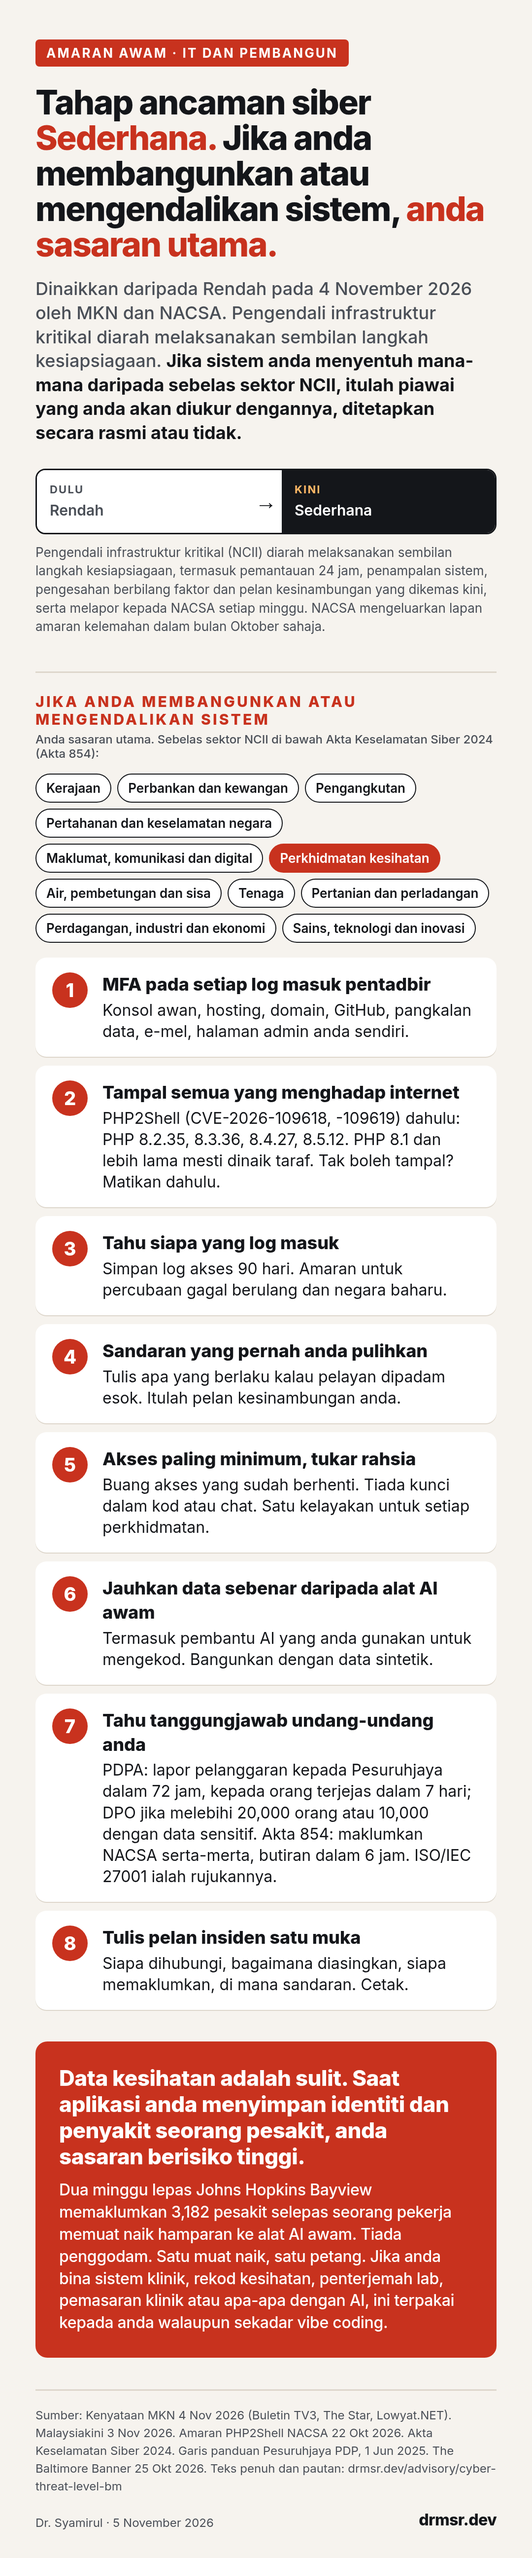
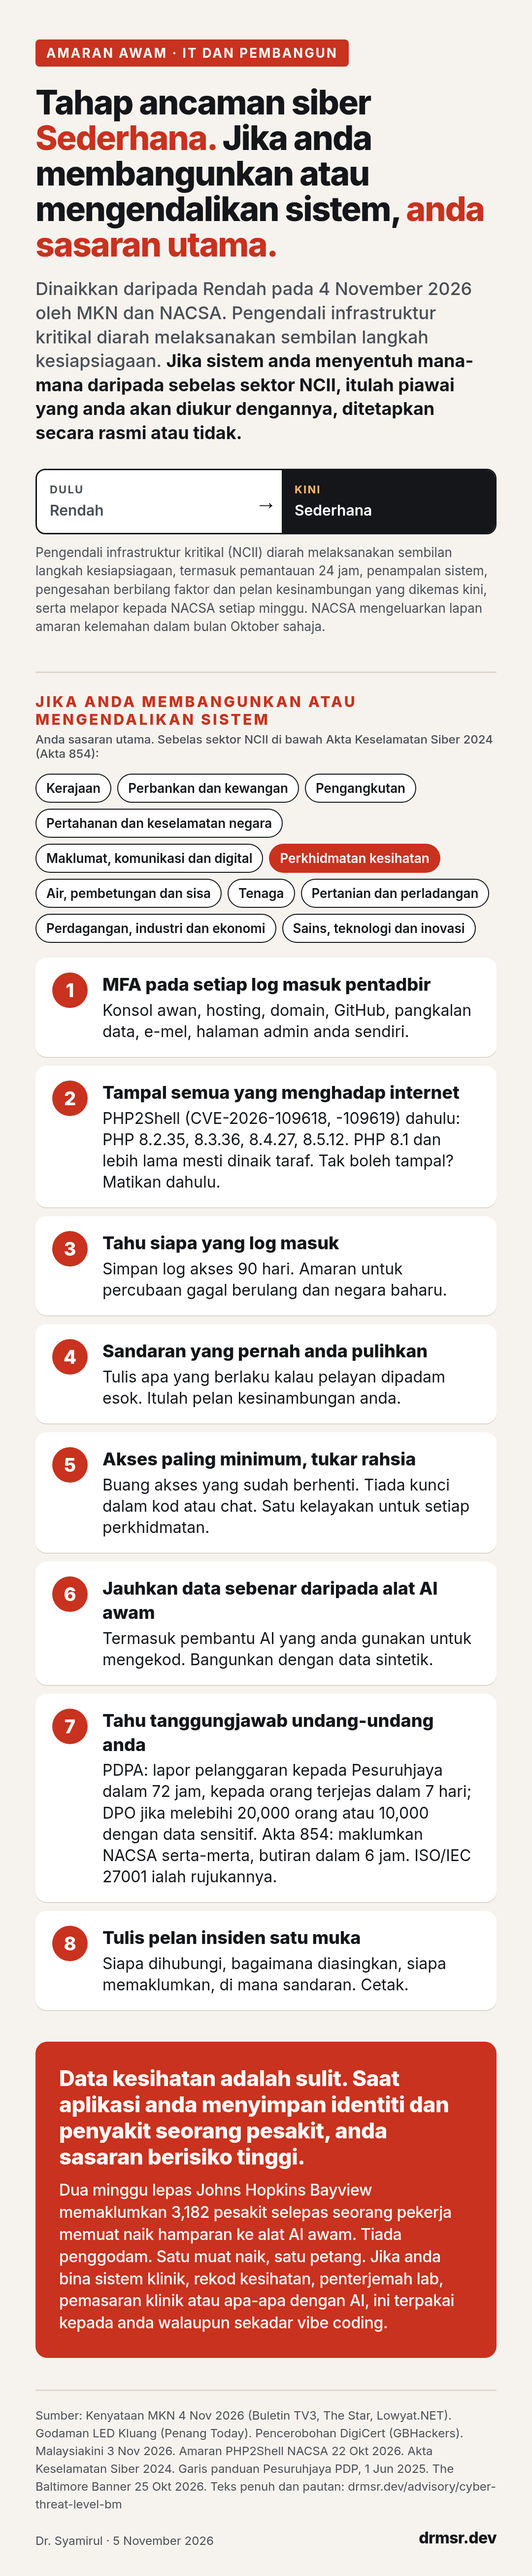
Advisory: lead with this week's incidents (Kluang LED hijack, DigiCert breach, bank-app approval reports), new first step, evidence screenshots, refreshed infographics

Changed region(s): [[0.0611, 0.0312, 0.9472, 0.9686], [0.8556, 0.0937, 0.8861, 0.125]]

diff --git a/content/posts/cyber-threat-level-bm.md b/content/posts/cyber-threat-level-bm.md
@@ -6,7 +6,7 @@ status: "Public"
 type: "Post"
 category: ["Advisory"]
 tags: ["advisory", "security", "nacsa", "pdpa", "healthcare", "malaysia"]
-summary: "Pada 4 November 2026 Majlis Keselamatan Negara menaikkan tahap ancaman siber negara daripada Rendah kepada Sederhana. Ini yang perlu orang awam jangkakan, dan yang mesti dibuat minggu ini oleh sesiapa yang membangunkan atau mengendalikan sistem."
+summary: "Pada 4 November 2026 Majlis Keselamatan Negara menaikkan tahap ancaman siber negara daripada Rendah kepada Sederhana. Minggu yang sama, papan iklan Kluang digodam dan DigiCert mengesahkan pencerobohan. Ini yang perlu dibuat sekarang, dan yang mesti dibuat minggu ini oleh sesiapa yang membangunkan atau mengendalikan sistem."
 thumbnail: null
 ---
 
@@ -22,32 +22,54 @@ Organisasi yang mengendalikan sistem kritikal negara (Infrastruktur Maklumat Kri
 
 ::: tab Orang awam
 
-![Infografik amaran awam untuk orang awam: tahap ancaman siber negara kini Sederhana, apa maknanya dan enam langkah sekarang](https://drmsr.dev/images/advisory/cyber-threat-level-public-ms.png?v=1)
+![Infografik amaran awam untuk orang awam: tahap ancaman siber negara kini Sederhana, apa maknanya dan enam langkah sekarang](https://drmsr.dev/images/advisory/cyber-threat-level-public-ms.png?v=2)
 
 [Kongsi infografik orang awam](#share-image:/images/advisory/cyber-threat-level-public-ms.png)
 
 ## Apa maknanya untuk anda
 
-Tiada serangan terhadap orang awam Malaysia yang diumumkan. Tahap ancaman mengubah apa yang institusi buat, bukan rutin harian anda. Bank, hospital, utiliti, telco dan sistem kerajaan sedang mengetatkan pertahanan, dan sebahagiannya mungkin lebih perlahan atau tergendala seketika semasa itu.
+Ini bukan latihan, dan ia sudah sampai kepada orang biasa. Dalam minggu yang sama tahap ini dinaikkan:
 
-Yang patut anda jangkakan ialah **lebih banyak penipuan yang menunggang berita ini**. Setiap amaran seperti ini melahirkan gelombang mesej palsu: "Amaran MKN, sahkan akaun anda", "bank anda diserang, pindahkan wang anda", "pasang kemas kini keselamatan ini". Tiada satu pun datang daripada kerajaan atau bank anda. Badan rasmi tidak menghantar pautan untuk ditekan, aplikasi untuk dipasang, atau meminta kata laluan dan kod OTP anda.
+- **Kluang, 1 November.** Lapan skrin LED Majlis Perbandaran Kluang di sekitar bandar digodam untuk memaparkan video lucah. Kumpulan yang menggelar diri "Leakers" mengaku bertanggungjawab, mendakwa mahu mendedahkan keselamatan yang lemah, dan mendakwa serangan yang sama turut mengenai skrin di Mesir, Iraq, Brazil dan China. Polis telah membuka siasatan. ([laporan](https://penangtoday.my/news/10192/hacker-group-leakers-says-kluang-led-billboard-hack-aimed-to-expose-weak-security/))
+- **DigiCert.** Antara pihak berkuasa sijil keselamatan terbesar dunia ini mengesahkan sistem dalamannya yang menyimpan rekod pelanggan lama telah dicerobohi, mendedahkan butiran perhubungan perniagaan dan, bagi sebahagian akaun, dokumen pengenalan diri. DigiCert menyatakan pengeluaran sijil tidak terjejas. ([laporan](https://gbhackers.com/digicert-confirms-data-breach/))
+- **Permintaan kelulusan dalam aplikasi bank.** Di Threads, ramai melaporkan permintaan kelulusan muncul dalam aplikasi bank mereka untuk pembelian yang tidak pernah mereka buat. Ini laporan pengguna, belum disahkan sebagai insiden, tetapi beginilah rupa cubaan merampas akaun.
 
-Perdana Menteri tidak menasihatkan orang awam membuat persiapan kecemasan. Berjaga-jaga, bukan panik.
+```gallery
+[
+ {
+  "src": "https://drmsr.dev/images/advisory/cyber-threat-level-kluang.png?v=1",
+  "alt": "News headline: Kluang LED billboard hack",
+  "caption": "Penang Today, 1 November 2026: kumpulan yang mengaku melakukan godaman LED Kluang."
+ },
+ {
+  "src": "https://drmsr.dev/images/advisory/cyber-threat-level-digicert.png?v=1",
+  "alt": "News headline: DigiCert confirms data breach",
+  "caption": "GBHackers, 5 November 2026: DigiCert mengesahkan data pelanggan dibolosi."
+ },
+ {
+  "src": "https://drmsr.dev/images/advisory/cyber-threat-level-mae-report.png?v=1",
+  "alt": "A Threads user's screenshot of an unexpected banking approval request",
+  "caption": "Laporan pengguna di Threads, 4 November 2026: permintaan kelulusan untuk pembelian yang tidak pernah dibuat, sempat ditolak. Nama dan butiran akaun dikaburkan."
+ }
+]
+```
+
+Kerajaan menyebut tahap yang lebih tinggi ini sebagai langkah berjaga-jaga. Dibaca bersama minggu ini, ia amaran untuk bertindak sekarang. Badan rasmi dan bank tidak pernah menghantar pautan untuk ditekan, aplikasi untuk dipasang, atau meminta kata laluan dan kod OTP anda.
 
 ## Buat sekarang
 
-1. Hidupkan pengesahan dua langkah. WhatsApp (Tetapan, Akaun, Pengesahan dua langkah), e-mel, aplikasi bank, akaun Google atau Apple anda. Satu tetapan ini menghalang kebanyakan rampasan akaun.
-2. Anggap mesej yang mendesak sebagai mencurigakan, terutamanya yang menyebut amaran ini, bank anda, kerajaan, atau "kemas kini". Jangan tekan pautan itu. Buka aplikasi rasmi sendiri, atau hubungi nombor yang tercetak di kad anda.
-3. Kemas kini telefon dan komputer anda. Pasang kemas kini sistem dan aplikasi yang tertunggak hari ini. Kalau anda menerima fail ZIP melalui WhatsApp baru-baru ini, baca [amaran kami yang terdahulu](/advisory/whatsapp-malware-bm).
-4. Jangan sekali-kali pasang aplikasi daripada pautan, dan jangan beri kod OTP kepada sesiapa. Bukan kepada "bank", bukan "polis", bukan "sokongan teknikal".
-5. Buat sandaran (backup) perkara yang penting. Gambar keluarga, dokumen, fail perniagaan. Simpan satu salinan di tempat yang bukan peranti yang sama.
+1. Kalau aplikasi bank minta anda luluskan sesuatu yang anda tidak mulakan, tolak. Kemudian hubungi nombor yang tercetak di kad anda dan maklumkan bank. Jangan luluskan "untuk tengok apa jadi".
+2. Hidupkan pengesahan dua langkah. WhatsApp (Tetapan, Akaun, Pengesahan dua langkah), e-mel, aplikasi bank, akaun Google atau Apple anda. Satu tetapan ini menghalang kebanyakan rampasan akaun.
+3. Anggap mesej yang mendesak sebagai mencurigakan, terutamanya yang menyebut amaran ini, bank anda, kerajaan, atau "kemas kini". Jangan tekan pautan itu. Buka aplikasi rasmi sendiri.
+4. Kemas kini telefon dan komputer anda, dan jangan pasang aplikasi daripada pautan. Pasang kemas kini sistem dan aplikasi yang tertunggak hari ini. Kalau anda menerima fail ZIP melalui WhatsApp baru-baru ini, baca [amaran kami yang terdahulu](/advisory/whatsapp-malware-bm).
+5. Jangan beri kod OTP kepada sesiapa, dan buat sandaran perkara yang penting. Bukan kepada "bank", bukan "polis", bukan "sokongan teknikal". Simpan satu salinan gambar dan fail di tempat yang bukan peranti yang sama.
 6. Kalau anda ditipu, hubungi 997 serta-merta. Pusat Respons Scam Kebangsaan beroperasi 24 jam dan panggilan itu dikira sebagai laporan polis. Melapor dalam 24 jam memberi peluang terbaik untuk membekukan wang itu.
 
 :::
 
 ::: tab IT dan pembangun
 
-![Infografik amaran awam untuk IT dan pembangun: sebelas sektor NCII dan senarai semak lapan langkah](https://drmsr.dev/images/advisory/cyber-threat-level-it-ms.png?v=1)
+![Infografik amaran awam untuk IT dan pembangun: sebelas sektor NCII dan senarai semak lapan langkah](https://drmsr.dev/images/advisory/cyber-threat-level-it-ms.png?v=2)
 
 [Kongsi infografik IT](#share-image:/images/advisory/cyber-threat-level-it-ms.png)
 

diff --git a/content/posts/cyber-threat-level-en.md b/content/posts/cyber-threat-level-en.md
@@ -6,7 +6,7 @@ status: "Public"
 type: "Post"
 category: ["Advisory"]
 tags: ["advisory", "security", "nacsa", "pdpa", "healthcare", "malaysia"]
-summary: "On 4 November 2026 the National Security Council raised Malaysia's cyber threat level from Low to Medium. Here is what the public should expect, and what anyone who builds or runs a system has to do this week."
+summary: "On 4 November 2026 the National Security Council raised Malaysia's cyber threat level from Low to Medium. The same week, Kluang billboards were hijacked and DigiCert confirmed a breach. Here is what to do now, and what anyone who builds or runs a system has to do this week."
 thumbnail: null
 ---
 
@@ -22,32 +22,54 @@ Organisations that run the country's critical systems (the National Critical Inf
 
 ::: tab Public
 
-![Public advisory infographic for the public: Malaysia's cyber threat level is now Medium, what it means and six things to do now](https://drmsr.dev/images/advisory/cyber-threat-level-public-en.png?v=1)
+![Public advisory infographic for the public: Malaysia's cyber threat level is now Medium, what it means and six things to do now](https://drmsr.dev/images/advisory/cyber-threat-level-public-en.png?v=2)
 
 [Share the public infographic](#share-image:/images/advisory/cyber-threat-level-public-en.png)
 
 ## What this means for you
 
-No attack on the Malaysian public has been announced. A threat level changes what institutions do, not what you do day to day. Banks, hospitals, utilities, telcos and government systems are tightening their defences, and some may be slower or briefly unavailable while they do.
+This is not a drill, and it is already touching ordinary people. In the same week the level was raised:
 
-What you should expect is **more scams riding on the news**. Every alert like this produces a wave of fake messages: "MKN warning, verify your account", "your bank is under attack, move your money", "install this security update". None of these come from the government or your bank. Official bodies do not send you links to click, apps to install, or requests for your password or one-time code.
+- **Kluang, 1 November.** Eight Kluang Municipal Council LED screens around the town were hijacked to show pornographic videos. A group calling itself "Leakers" claimed it, said it wanted to expose weak security, and claimed the same sweep hit screens in Egypt, Iraq, Brazil and China. Police have opened investigations. ([report](https://penangtoday.my/news/10192/hacker-group-leakers-says-kluang-led-billboard-hack-aimed-to-expose-weak-security/))
+- **DigiCert.** One of the world's largest certificate authorities confirmed that an internal system holding archived customer records was accessed without authorisation, exposing business contact details and, for some accounts, identity documents. DigiCert says certificate issuance was not affected. ([report](https://gbhackers.com/digicert-confirms-data-breach/))
+- **Banking app prompts.** On Threads, people are reporting approval requests appearing in their banking app for purchases they never made. These are user reports, not a confirmed incident, but they are exactly what an account takeover attempt looks like.
 
-The Prime Minister did not advise the public to make emergency preparations. Precaution is the word, not panic.
+```gallery
+[
+ {
+  "src": "https://drmsr.dev/images/advisory/cyber-threat-level-kluang.png?v=1",
+  "alt": "News headline: Kluang LED billboard hack",
+  "caption": "Penang Today, 1 November 2026: the group claiming the Kluang LED hijack."
+ },
+ {
+  "src": "https://drmsr.dev/images/advisory/cyber-threat-level-digicert.png?v=1",
+  "alt": "News headline: DigiCert confirms data breach",
+  "caption": "GBHackers, 5 November 2026: DigiCert confirms a breach of customer records."
+ },
+ {
+  "src": "https://drmsr.dev/images/advisory/cyber-threat-level-mae-report.png?v=1",
+  "alt": "A Threads user's screenshot of an unexpected banking approval request",
+  "caption": "A user report on Threads, 4 November 2026: an approval request for a purchase they never made, rejected in time. Name and account details blurred."
+ }
+]
+```
+
+The government calls the higher level a precaution. Read alongside this week, it is a warning to act now. Official bodies and banks never send you links to click, apps to install, or ask for your password or one-time code.
 
 ## What to do now
 
-1. Turn on two-step verification. WhatsApp (Settings, Account, Two-step verification), your email, your banking app, your Google or Apple account. This one setting stops most account takeovers.
-2. Treat urgent messages as suspicious, especially any that mention this alert, your bank, the government, or an "update". Do not tap the link. Open the official app yourself, or call the number printed on your card.
-3. Update your phone and your computer. Install pending system updates and app updates today. If you received a ZIP file through WhatsApp recently, read our [earlier advisory](/advisory/whatsapp-malware-en).
-4. Never install an app from a link, and never give anyone your one-time code (OTP). Not your "bank", not "the police", not "tech support".
-5. Back up what matters. Family photos, documents, your business files. Keep one copy somewhere that is not the same device.
+1. If your banking app asks you to approve something you did not start, reject it. Then call the number printed on your card and tell your bank. Do not approve "to see what happens".
+2. Turn on two-step verification. WhatsApp (Settings, Account, Two-step verification), your email, your banking app, your Google or Apple account. This one setting stops most account takeovers.
+3. Treat urgent messages as suspicious, especially any that mention this alert, your bank, the government, or an "update". Do not tap the link. Open the official app yourself.
+4. Update your phone and your computer, and never install an app from a link. Install pending system and app updates today. If you received a ZIP file through WhatsApp recently, read our [earlier advisory](/advisory/whatsapp-malware-en).
+5. Never give anyone your one-time code (OTP), and back up what matters. Not your "bank", not "the police", not "tech support". Keep one copy of your photos and files somewhere that is not the same device.
 6. If you are scammed, call 997 at once. The National Scam Response Centre runs 24 hours a day and the call counts as a police report. Reporting within 24 hours gives the best chance of freezing the money.
 
 :::
 
 ::: tab IT and developers
 
-![Public advisory infographic for IT and developers: the eleven NCII sectors and an eight-step checklist](https://drmsr.dev/images/advisory/cyber-threat-level-it-en.png?v=1)
+![Public advisory infographic for IT and developers: the eleven NCII sectors and an eight-step checklist](https://drmsr.dev/images/advisory/cyber-threat-level-it-en.png?v=2)
 
 [Share the IT infographic](#share-image:/images/advisory/cyber-threat-level-it-en.png)
 
